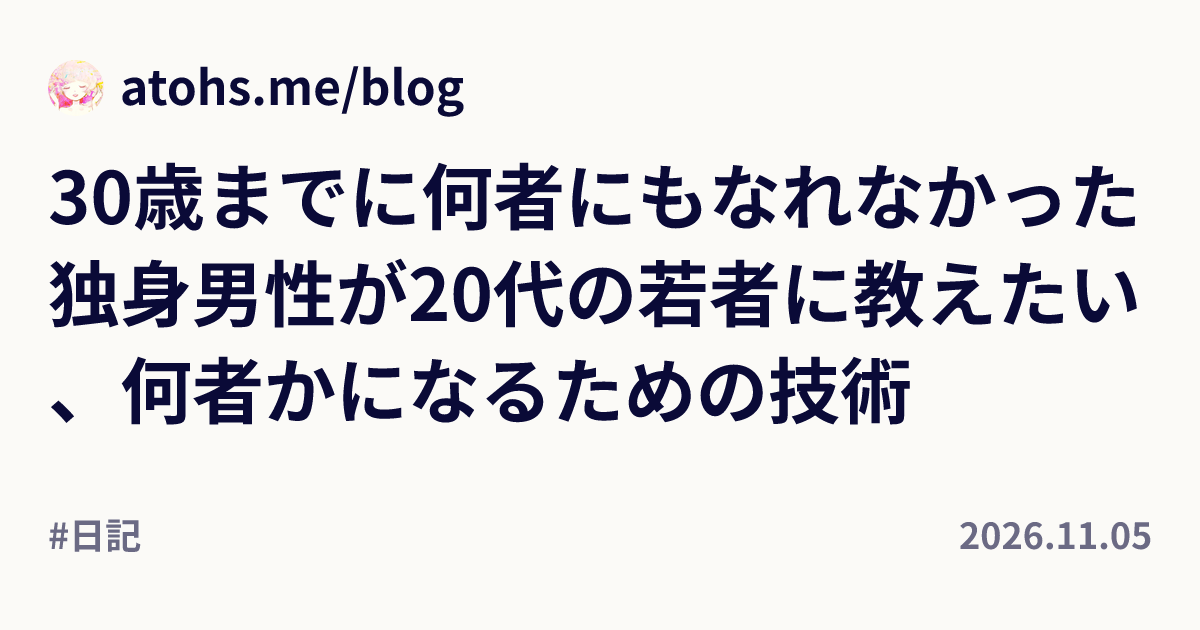
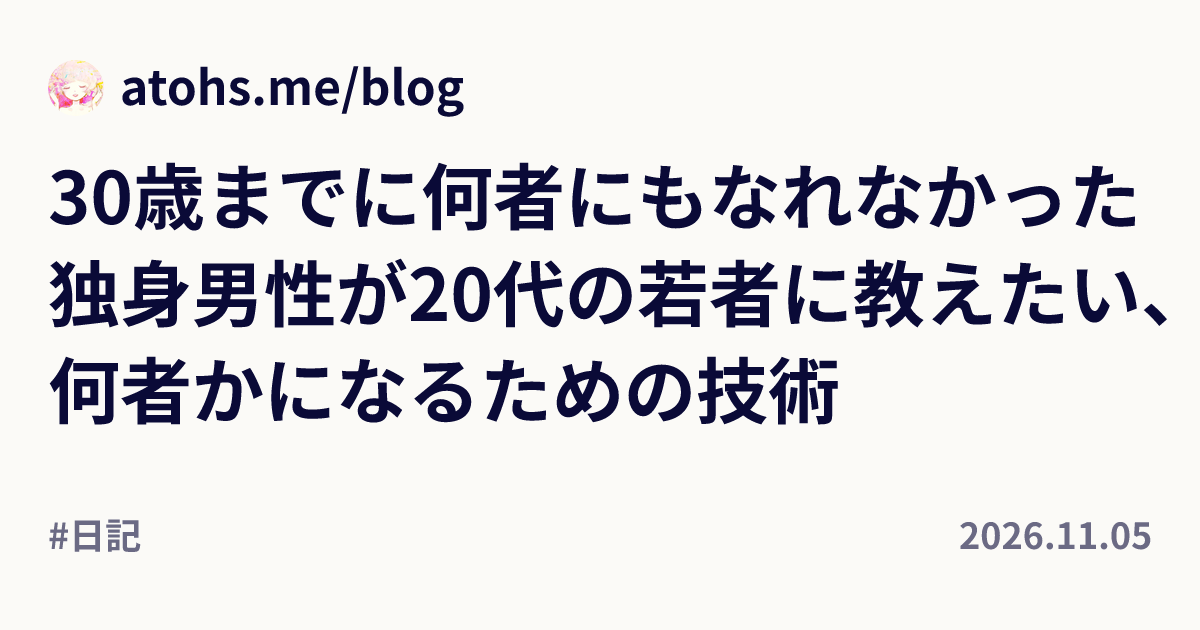
OGPタイトル折り返しで行頭禁則を守るようにする。
句読点が行頭に来ないよう禁則処理を入れ、該当記事の og.png を再生成した。

Changed region(s): [[0.0308, 0.5429, 0.7708, 0.6937], [0.9558, 0.4825, 0.9867, 0.5127]]

diff --git a/src/lib/og-image.ts b/src/lib/og-image.ts
@@ -37,6 +37,42 @@ const HERO_BORDER_RADIUS = 12;
 const HERO_GAP = 24;
 const FOOTER_MARGIN_TOP = 24;
 const TITLE_LINE_HEIGHT_PX = TITLE_FONT_SIZE * LINE_HEIGHT;
+/** 行頭に来てはいけない文字（禁則処理） */
+const LINE_START_PROHIBITED = new Set([
+  '、',
+  '。',
+  '，',
+  '．',
+  '：',
+  '；',
+  '？',
+  '！',
+  '‼',
+  '⁉',
+  '・',
+  '…',
+  '‥',
+  'ー',
+  '—',
+  '−',
+  ')',
+  '）',
+  ']',
+  '］',
+  '}',
+  '｝',
+  '〉',
+  '》',
+  '」',
+  '』',
+  '】',
+  '〕',
+  '〙',
+  '〛',
+  'ゝ',
+  'ゞ',
+  '々',
+]);
 const TEXT_COLOR = 'rgb(10, 10, 55)';
 /** 記事メタの `--color-text-muted`（light / contrast 100%）に近い */
 const FOOTER_TEXT_COLOR = 'rgba(10, 10, 55, 0.6)';
@@ -144,6 +180,29 @@ function tokenWidth(token: string, fontSize: number): number {
   return width;
 }
 
+/** 折り返し後に行頭禁則（、。など）を前行へ寄せる */
+function fixKinsokuLineBreaks(lines: string[]): string[] {
+  if (lines.length <= 1) return lines;
+
+  const result = [...lines];
+  let changed = true;
+
+  while (changed) {
+    changed = false;
+    for (let i = 1; i < result.length; i++) {
+      while (result[i].length > 0) {
+        const first = [...result[i]][0];
+        if (!LINE_START_PROHIBITED.has(first)) break;
+        result[i] = [...result[i]].slice(1).join('');
+        result[i - 1] += first;
+        changed = true;
+      }
+    }
+  }
+
+  return result.filter((line) => line.length > 0);
+}
+
 function appendCharToLine(
   lines: string[],
   line: { text: string; width: number },
@@ -230,7 +289,7 @@ function wrapTitleLines(title: string, fontSize: number, contentWidth: number): 
 
   if (line.text) lines.push(line.text);
 
-  return lines.length > 0 ? lines : [''];
+  return fixKinsokuLineBreaks(lines.length > 0 ? lines : ['']);
 }
 
 type HeroWrapBand = {
@@ -311,7 +370,7 @@ function wrapTitleLinesWithVariableWidth(
 
   if (line.text) lines.push(line.text);
 
-  return lines.length > 0 ? lines : [''];
+  return fixKinsokuLineBreaks(lines.length > 0 ? lines : ['']);
 }
 
 /** ヒーロー帯と重なる行だけ狭い幅で折り返す（収束するまで再計算） */
